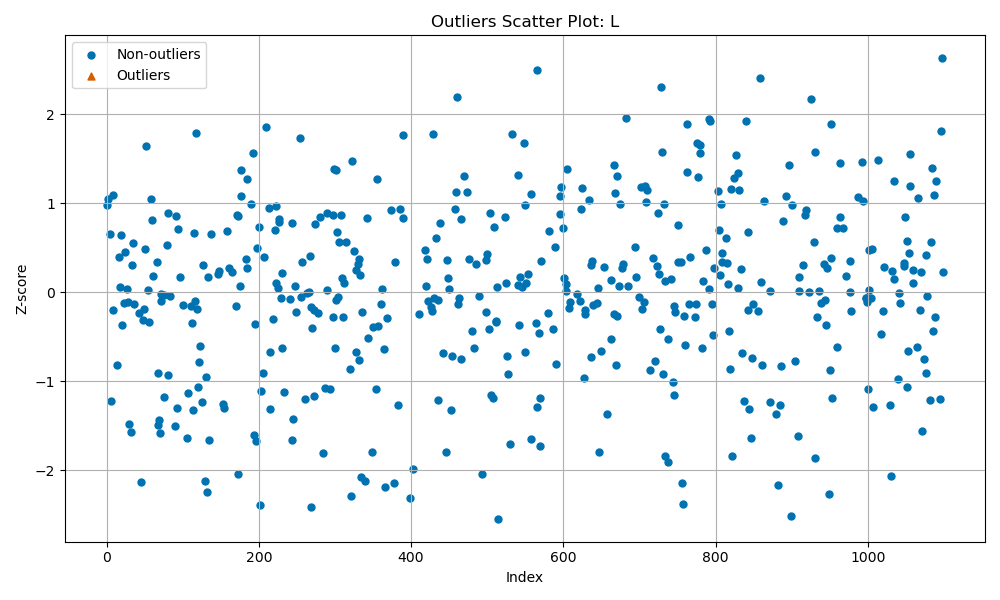
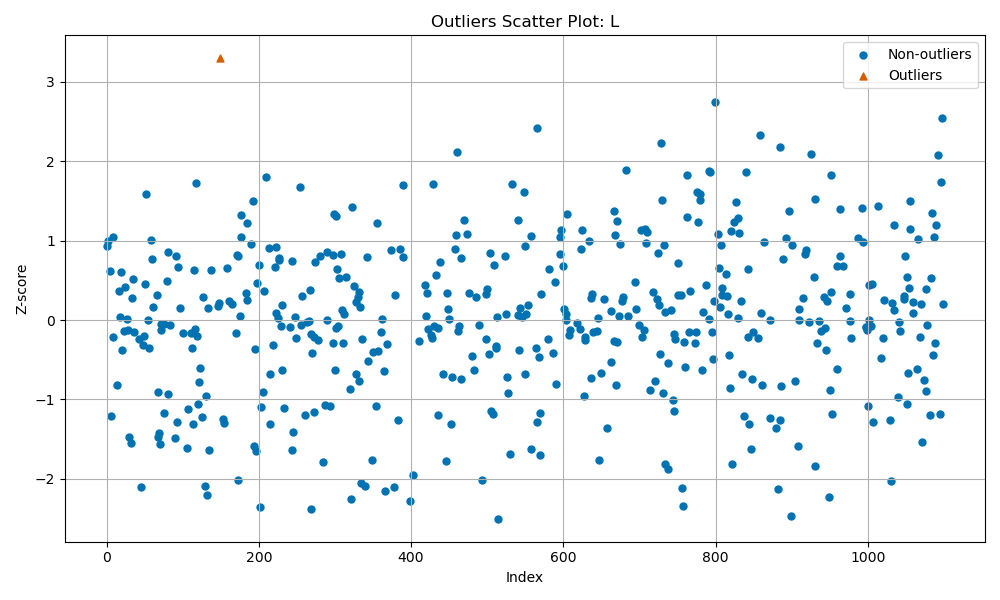
Add back 4 stars that were removed as outliers

diff --git a/modeling/preprocessor/combine_dbs.py b/modeling/preprocessor/combine_dbs.py
@@ -42,6 +42,6 @@ def clean_joined(df: pd.DataFrame) -> pd.DataFrame:
         "met_combined": "met"
     })
 
-    df = remove_outliers(df)
+    df = df[df["tic_id"]!="TIC 125843782"] #This star is not in main sequence
 
     return df
